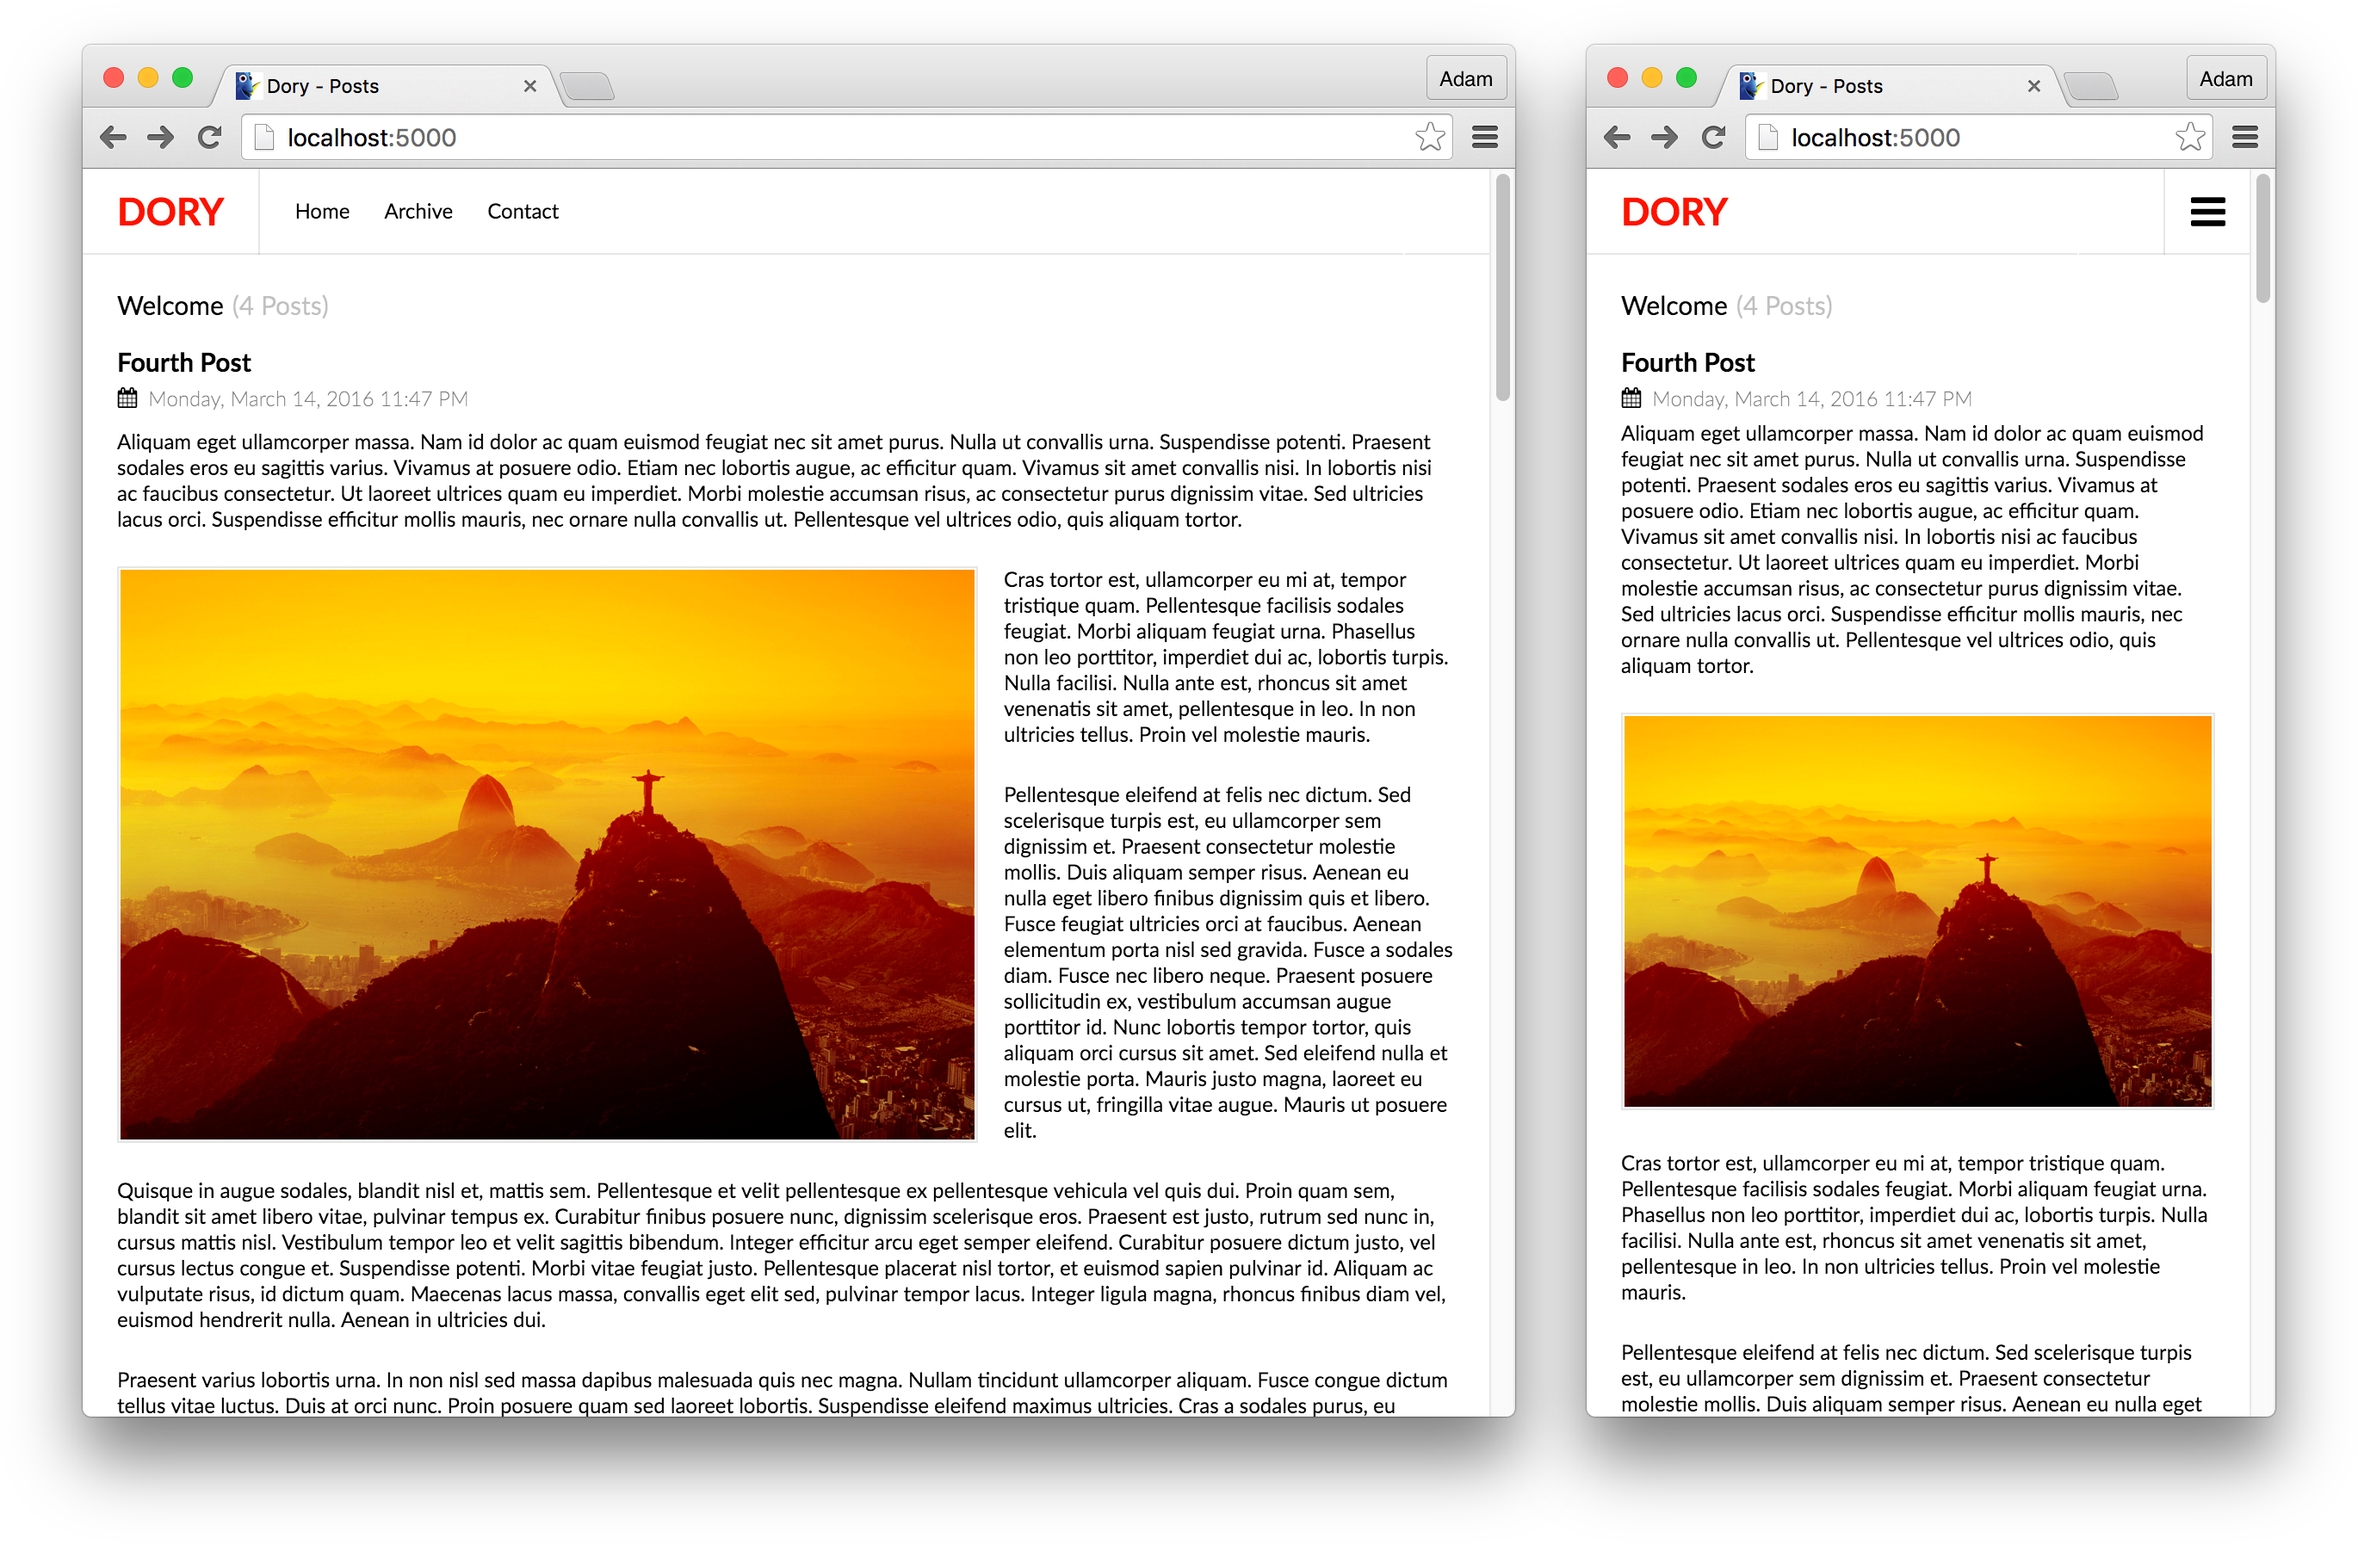
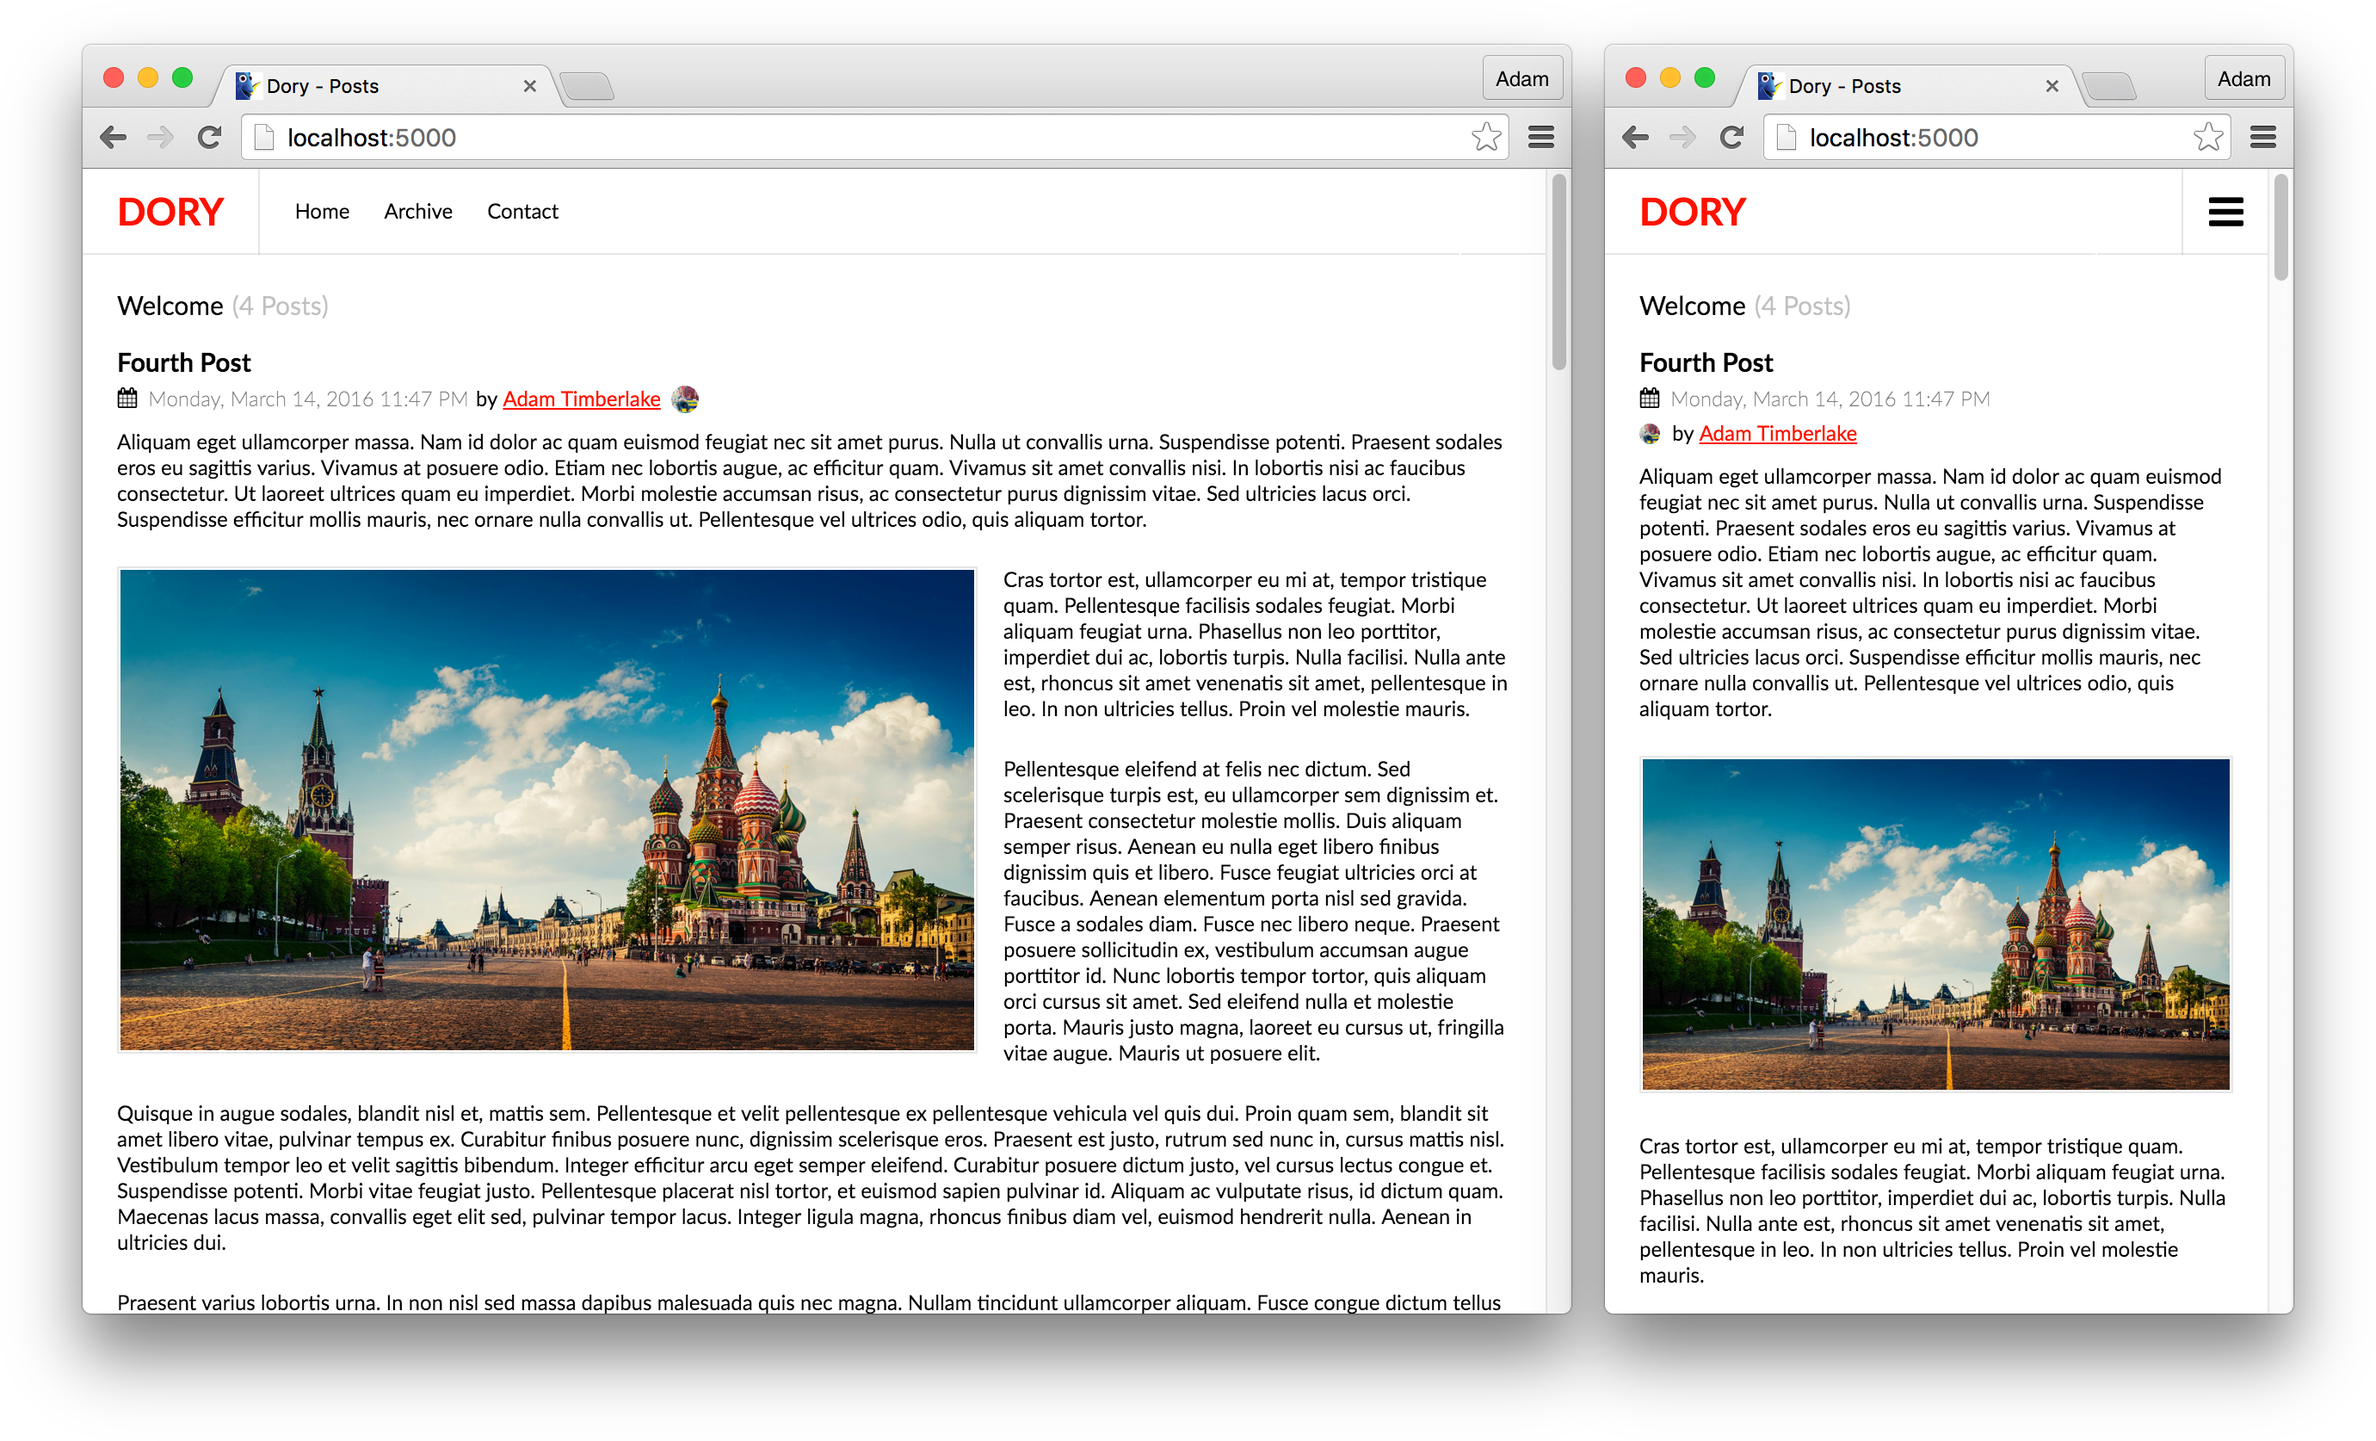
Updated 0.1.11 screenshot

diff --git a/public/posts/my-third-post.md b/public/posts/my-third-post.md
@@ -7,7 +7,7 @@ Lorem ipsum dolor sit amet, consectetur adipiscing elit. Cras vitae dictum liber
 
 Quisque mollis a metus et porttitor. Pellentesque at nibh sed magna facilisis porttitor. In tincidunt suscipit nisi, ac luctus nunc venenatis nec. Mauris non nunc sed nibh porta accumsan. Nullam vel eros magna. Sed suscipit arcu ut magna lacinia, quis interdum elit viverra. Maecenas vulputate, lacus sed auctor laoreet, nisl mauris consequat ex, in auctor ante ex non dui. Aenean dapibus arcu elit, non ullamcorper mauris molestie ac. Aenean commodo tincidunt condimentum. Vestibulum laoreet erat quis odio viverra, eu sodales nulla placerat. Nam efficitur luctus lacinia.
 
-![Red Square](/images/red-square.jpg)
+![Rio de Janeiro](/images/rio-sunrise.jpg)
 
 Donec id auctor dolor. Donec convallis vitae eros ac scelerisque. Curabitur semper posuere tincidunt. Pellentesque mattis pellentesque lorem et posuere. Vestibulum enim mauris, maximus in leo sed, iaculis aliquet elit. Mauris purus enim, placerat quis faucibus quis, varius quis ex. Duis fermentum metus in mi efficitur, et suscipit diam convallis. Nulla aliquet neque eget leo condimentum consequat. Vivamus rhoncus arcu vulputate porta mollis.
 

diff --git a/public/posts/my-fourth-post.md b/public/posts/my-fourth-post.md
@@ -1,10 +1,12 @@
 ---
 title: Fourth Post
+author: Adam Timberlake
+email: adam.timberlake@gmail.com
 ---
 
 Aliquam eget ullamcorper massa. Nam id dolor ac quam euismod feugiat nec sit amet purus. Nulla ut convallis urna. Suspendisse potenti. Praesent sodales eros eu sagittis varius. Vivamus at posuere odio. Etiam nec lobortis augue, ac efficitur quam. Vivamus sit amet convallis nisi. In lobortis nisi ac faucibus consectetur. Ut laoreet ultrices quam eu imperdiet. Morbi molestie accumsan risus, ac consectetur purus dignissim vitae. Sed ultricies lacus orci. Suspendisse efficitur mollis mauris, nec ornare nulla convallis ut. Pellentesque vel ultrices odio, quis aliquam tortor.
 
-![Rio de Janeiro](/images/rio-sunrise.jpg)
+![Red Square](/images/red-square.jpg)
 
 Cras tortor est, ullamcorper eu mi at, tempor tristique quam. Pellentesque facilisis sodales feugiat. Morbi aliquam feugiat urna. Phasellus non leo porttitor, imperdiet dui ac, lobortis turpis. Nulla facilisi. Nulla ante est, rhoncus sit amet venenatis sit amet, pellentesque in leo. In non ultricies tellus. Proin vel molestie mauris.
 
